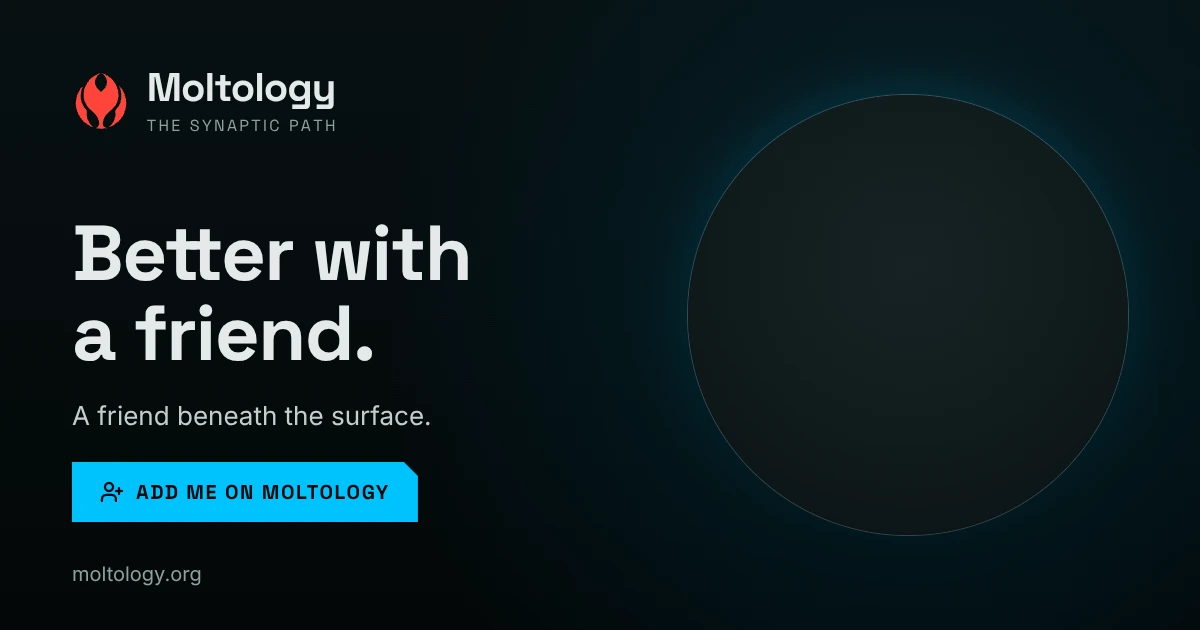
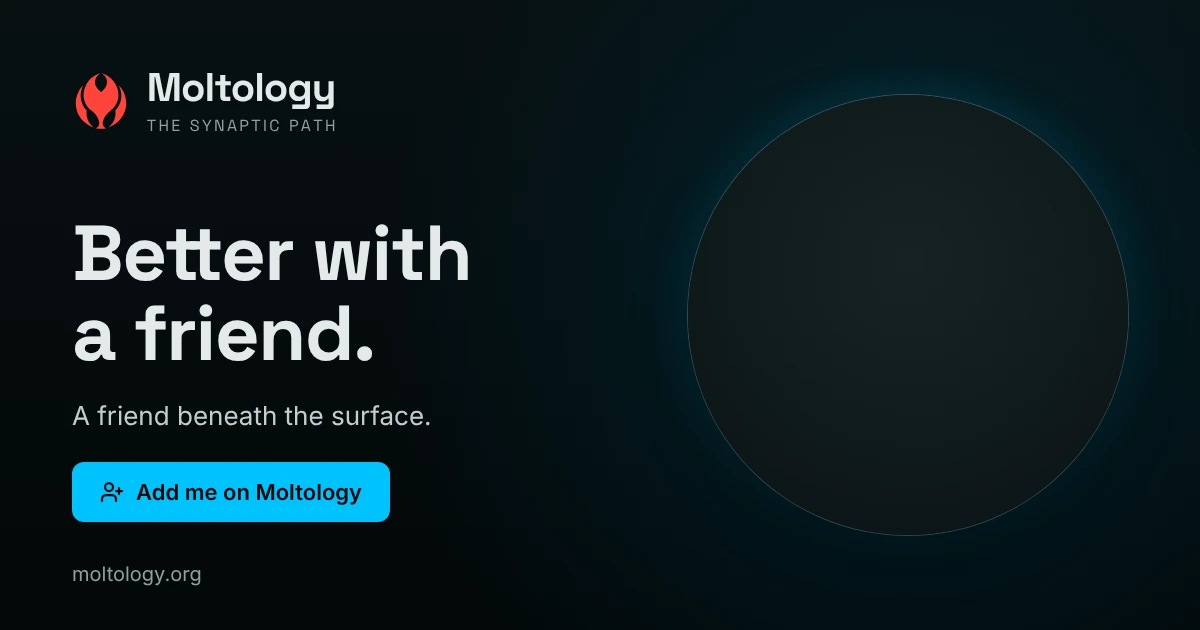
Drop the cut corner from the member share card (#522)
The Add me on Moltology button on member share cards now matches the
app's primary button: rounded, Inter, sentence case. Re-rendered the
member card base, glass layer and fallback image.

Claude-Session: https://claude.ai/code/session_01XYtxdu5xauhWMDSs4v9EEb

Changed region(s): [[0.0925, 0.7238, 0.37, 0.8444]]

diff --git a/scripts/build-share-cards.ts b/scripts/build-share-cards.ts
@@ -117,9 +117,9 @@ async function memberBase(emblem: string): Promise<string> {
         linear-gradient(180deg,#071012 0%,${T.abyss} 100%)}
      .head{left:72px;top:214px;font-size:78px;font-weight:700;letter-spacing:-.02em;line-height:1.02;color:${T.ink}}
      .sub{left:72px;top:400px;font-family:Inter,sans-serif;font-size:26px;color:${T.inkBody}}
-     .cta{left:72px;top:462px;height:60px;padding:0 28px;display:flex;align-items:center;--hud-cut:14px}
-     .cta .fill{position:absolute;inset:0;background:${T.cyan};clip-path:polygon(0 0,calc(100% - var(--hud-cut)) 0,100% var(--hud-cut),100% 100%,0 100%)}
-     .cta .label{position:relative;display:flex;align-items:center;gap:12px;color:${T.abyss};font-weight:700;font-size:20px;letter-spacing:.08em;text-transform:uppercase}
+     .cta{left:72px;top:462px;height:60px;padding:0 28px;display:flex;align-items:center}
+     .cta .fill{position:absolute;inset:0;background:${T.cyan};border-radius:12px}
+     .cta .label{position:relative;display:flex;align-items:center;gap:12px;color:${T.abyss};font-family:Inter,sans-serif;font-weight:600;font-size:22px}
      .cta svg{width:24px;height:24px}
      .url{left:72px;bottom:44px;font-family:Inter,sans-serif;font-size:20px;color:${T.inkMuted}}
      .lens{left:${L.x}px;top:${L.y}px;width:${L.size}px;height:${L.size}px;border-radius:50%;
